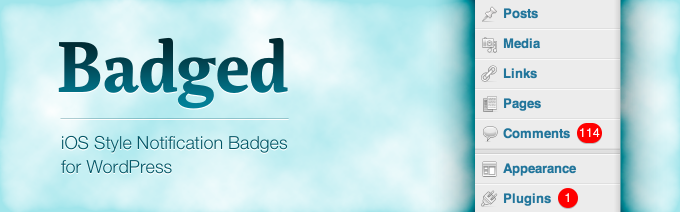
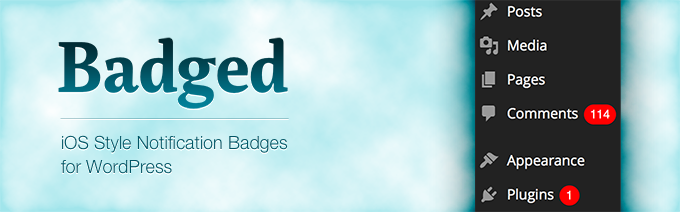
Badged update

diff --git a/_src/_posts/2011-12-15-badged.md b/_src/_posts/2011-12-15-badged.md
@@ -4,7 +4,7 @@ layout: post
 title: Badged - iOS Style Notification Badges for WordPress
 image: Badged-Teaser-kremalicious@2x.png
 author: Matthias Kretschmann
-updated: 2013-11-10 07:56:46+00:00
+updated: 2014-10-11 07:56:46+00:00
 featured: true
 
 date: 2011-12-15 07:56:46+00:00
@@ -19,7 +19,7 @@ Badged transforms the standard WordPress update & comment notification badges in
 
 The badges are CSS only (box shadows, gradients, pseudo elements, you name it) and were tested in current versions of Safari, Chrome, Firefox and Internet Explorer. If you care for how it’s done exactly, you can peek around in the [repository on github](https://github.com/kremalicious/Badged/).
 
-The plugin is localized in english & german, which is only important for the settings page.
+The plugin is localized in english, german & spanish (thanks to Andrew Kurtis from [webhostinghub.com](http://www.webhostinghub.com)).
 
 ## Download & Installation
 
@@ -29,7 +29,7 @@ You can just install the plugin via the automatic backend installer under _Plugi
 <a href="http://wordpress.org/extend/plugins/badged" class="btn btn-primary btn-block icon icon-wordpress-alt col2">Plugin Page</a> <a class="btn btn-primary btn-block icon icon-github-alt col2" href="https://github.com/kremalicious/Badged">GitHub</a> <a href="http://krlc.us/givecoffee" class="icon icon-heart btn btn-block col2">Donate</a>
 </p>
 
-The plugin is hosted on github and will always be mirrored in the WordPress plugins directory. But in case you want to install the plugin manually:
+The plugin is hosted on GitHub and will always be mirrored in the WordPress plugins directory. But in case you want to install the plugin manually:
 
   1. Upload the badged plugin folder to the `/wp-content/plugins/` directory
   2. Activate the plugin through the _Plugins_ menu in WordPress
@@ -38,9 +38,18 @@ The plugin is hosted on github and will always be mirrored in the WordPress plug
 
 ![](/media/badged-settings.png)
 
-If you find any problems you can [open an issue on Github](https://github.com/kremalicious/Badged/issues) or just drop me a line in the comments or on [Twitter](http://twitter.com/kremalicious).
+If you find any problems you can [open an issue on GitHub](https://github.com/kremalicious/Badged/issues) or just drop me a line in the comments or on [Twitter](http://twitter.com/kremalicious).
 
 ## Version History
+
+**v1.0.1**
+
+  * tested for WP 4.0
+  * Spanish translation, muchas gracias to Andrew Kurtis from [webhostinghub.com](http://www.webhostinghub.com)
+  * don't style comments badge with 0 comments
+  * improved styles
+  * admin settings page fixes
+  * plugin icon and updated banner & screenshots
 
 **v1.0.0**
 
